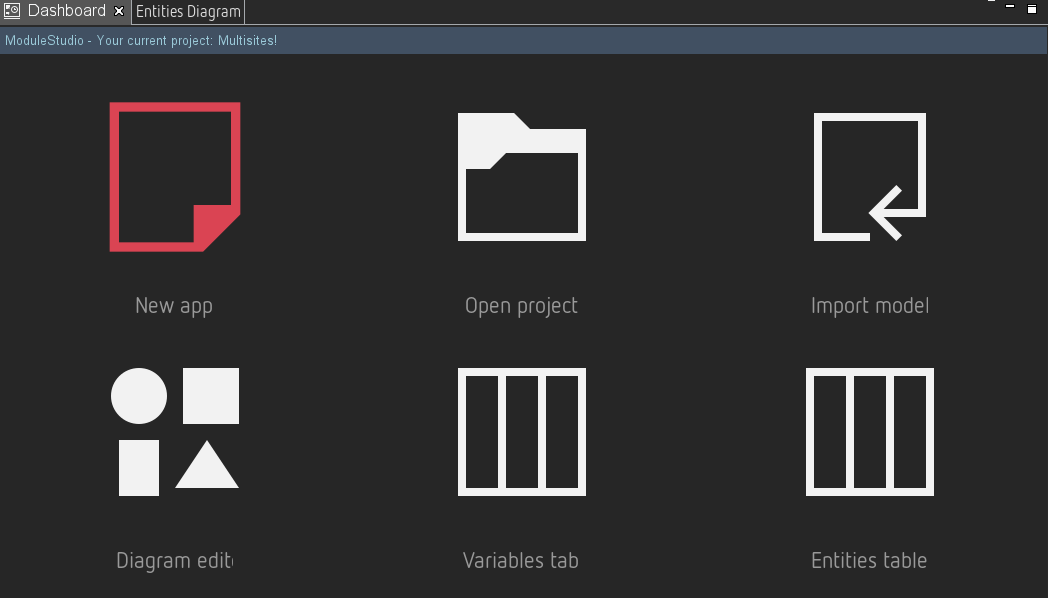
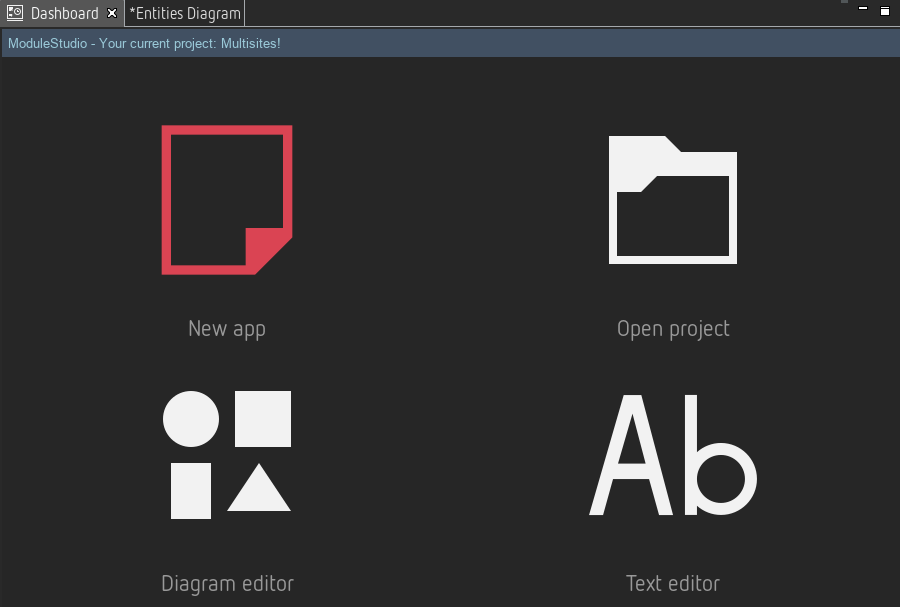
added possibility to open textual editor from dashboard view or main menu; updated some screenshots

diff --git a/bundles/de.guite.modulestudio.help/doc/30-UserInterface.md b/bundles/de.guite.modulestudio.help/doc/30-UserInterface.md
@@ -83,6 +83,7 @@ In the window menu you can find actions about managing editors, views and prefer
 
 
 1. ![Open diagram](images/menu_window_editors_diagram.png) Open diagram - Opens the [diagram editor](32-DiagramEditor.md#diagram-editor).
+2. ![Open text](images/menu_window_editors_text.png) Open text - Opens the [textual editor](36-TextualEditor.md#textual-editor).
 
 
 * ![Views](images/menu_window_views.png) Views - Displays a sub menu for opening the different views. Helpful if you closed one and need it back. This sub menu contains the following items:
@@ -151,7 +152,7 @@ Also you can minimise and maximise views by using the small icons at their top r
 
 It is even possible to use multiple editors in parallel by arranging them next to each other.
 
-![Table editor and textual editor side by side](images/ui_multiple_editors.png "Table editor and textual editor side by side")
+![Diagram editor and textual editor side by side](images/ui_multiple_editors.png "Diagram editor and textual editor side by side")
 
 Experiment with these options and use them to meet your personal workflow.
 

diff --git a/bundles/de.guite.modulestudio.help/doc/33-Views.md b/bundles/de.guite.modulestudio.help/doc/33-Views.md
@@ -8,8 +8,8 @@ The dashboard view is just a control panel providing you quick links to some com
 
 * ![New application](images/menu_file_new.png) New application - Starts the wizard for [creating a new model project](20-GettingStarted.md#create-your-first-application-in-10-minutes).
 * ![Open project](images/menu_file_open_project.png) Open project - Displays a dialog for selecting an existing project to open.
-* ![Import model file](images/menu_file_open_import.png) Import model - Displays a dialog for selecting an existing `.mostapp` file to be imported into a new project. Models from earlier versions are [automatically migrated](20-GettingStarted.md#importing-model-files).
 * ![Diagram editor](images/menu_window_editors_diagram.png) Diagram editor - Opens the [diagram editor](32-DiagramEditor.md#diagram-editor).
+* ![Text editor](images/menu_window_editors_text.png) Text editor - Opens the [textual editor](36-TextualEditor.md#textual-editor).
 
 ## Error log view
 

diff --git a/bundles/de.guite.modulestudio.help/doc/98-Changelog.md b/bundles/de.guite.modulestudio.help/doc/98-Changelog.md
@@ -6,6 +6,7 @@
 
 * Removed redundant filter panel.
 * Removed unused table editors.
+* Added possibility to open textual editor from dashboard view or main menu.
 
 ### DSL / Modelling language changes
 
